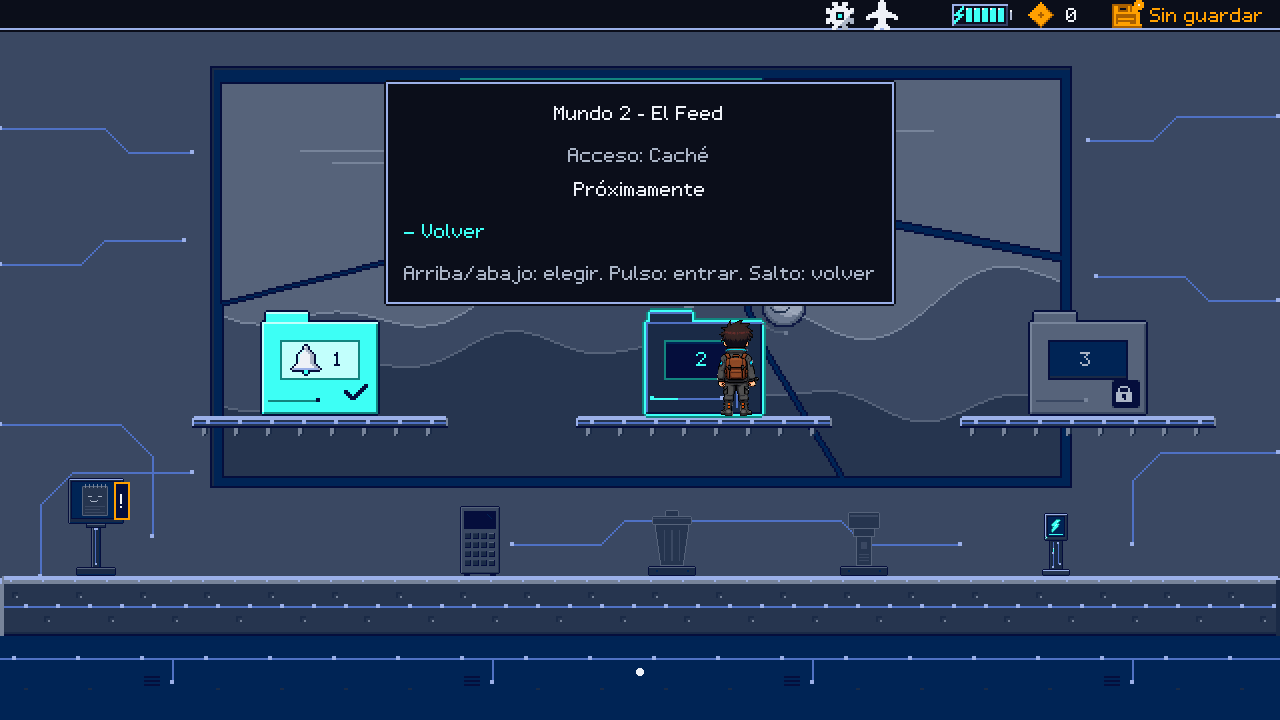
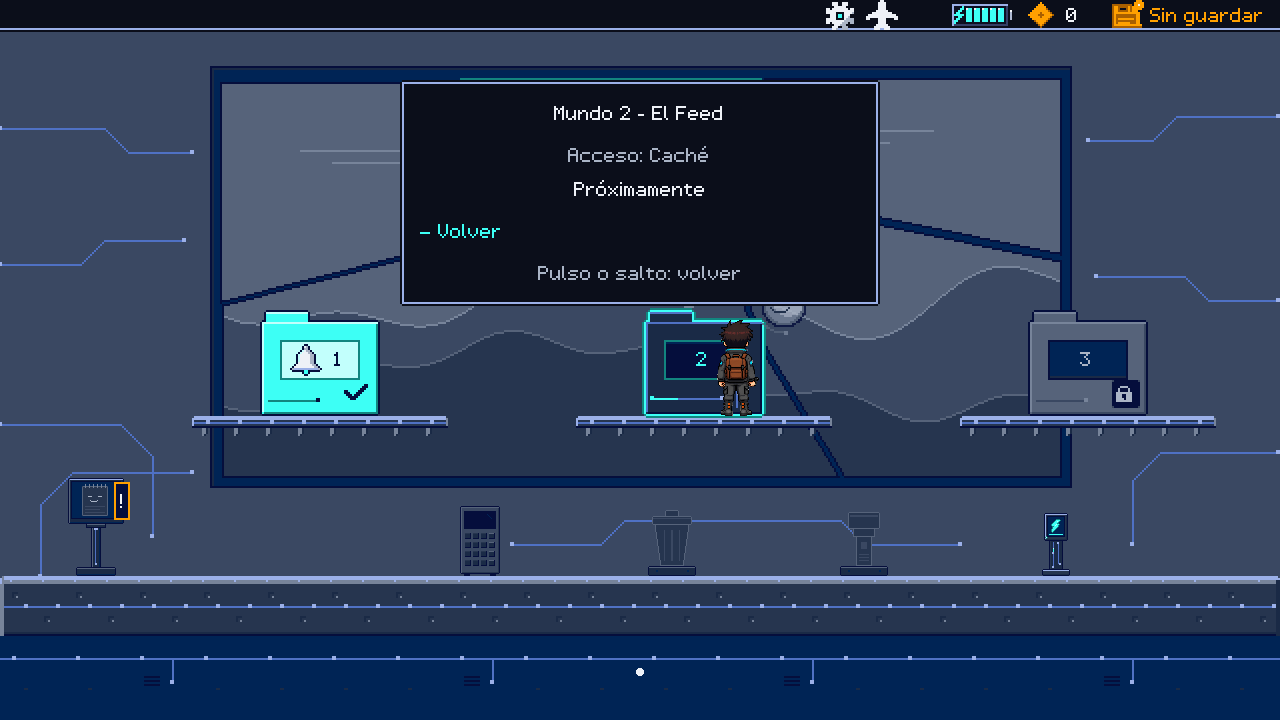
Hub: la carpeta de un mundo sin subniveles dice «Pulso o salto: volver»; prueba de los arreglos visuales y docs
- folders.texts.help_empty_world (Mundo 2 «Proximamente» sin «Pulso: entrar»)
- tests/test_visual_fixes.gd: arreglos del 1-3, del jefe y del hub
- docs: defectos de las capturas marcados como arreglados (mundo-1, 08-pendientes, CLAUDE.md)

Changed region(s): [[0.2812, 0.0917, 0.7188, 0.4278]]

diff --git a/docs/08-pendientes.md b/docs/08-pendientes.md
@@ -26,8 +26,8 @@ Origen: sección 16 del documento original (`docs/original/diseno.md`).
 - Historia del encuentro con Calc al final del 1-2 (2026-10-15 (3)): ~~opción A aprobada el 2026-10-16~~ sustituida el 2026-10-17 por el acertijo de la azotea de `propuesta-calc-encuentro.md` (tandas H1 y H2 hechas: piezas y sala de prueba; acertijo en la azotea del 1-2, ampliada a 11 filas, y en el validador con camino exportado, con Calc desconocida y conocida). H3 hecha el 2026-10-17 (encuentro en el hub con el estilo LCD de Calc, `CalcIntro`). El bot vertical (paso 15 del 1-2) recorre ambos casos desde el 2026-10-18. Pendiente: textos de Eco y Calc propuestos, por decidir; preguntas abiertas en su §9 y el tiempo de espaldas de cada pulso (0,45 s; `preguntas.md`).
 - Sistema de mejoras de Calc (2026-10-16; `propuesta-mejoras.md` **aprobada el 2026-10-17**): **tanda M1 hecha** (catálogo por pistas, compras con tope por acceso, guardado v4 con migración y devoluciones, efectos simples y tienda nueva con su arte; detalle en su sección «Tanda M1»). **Tanda M2 hecha (2026-10-17):** Ocultarte (Pulso 4, acción `hide` H / L3), Pulso de retorno (Pulso 5), láser que perfora (Láser 5), revelado persistente, más ralentización y Arranque rápido (Debug 3-5), Resincronización (Sync 5), recarga pasiva (Energía 5), tope de 3 power banks con «Sin espacio», icono «oculto» del HUD y la pasada del validador con el tope del acceso (`--access-cap`); ningún nivel sale ya «Próximamente». Pendiente: ajustar jugando los costes y valores (`data/upgrades.json`, `data/hide_mode.json`, `data/passive_regen.json`), la definición de «fuera de combate» y el tamaño de los efectos («+4», «?»); jefes que usen el Ocultarte (ideas en `propuesta-mejoras.md` §4, sin implementar); al menos un power bank por mundo y vuelta al hacer los mapas.
 - Nivel 1-2 «Centro de notificaciones» (2026-10-16): `propuesta-1-2.md` **aprobada el 2026-10-16** con todas sus recomendaciones (`preguntas.md`, «Aprobación del 1-2»). Hechos los pasos 1, 2, 3, 4, 5 y 9 de su §10 (esquema vertical, constructor, cámara de torre, fondo vertical y nivel de prueba `tower_test`; objetos del láser —lector, receptor enlazado, anuncio— y obtención del Debug, con la sala de prueba `correo_test`; punto rojo y banner, con la sala de prueba `mensajes_test`; recordatorio y Posponer, pop-up translúcido y barra del 99 %, con las salas `recordatorios_test`, `overlay_test` y `actualizaciones_test`); hecho además el paso 10 (validador con láser, Debug, energía, temporizadores y torre, y exportación del camino; `propuesta-1-2.md` §10); hecho además el paso 13 (el 1-2 real jugable desde el hub, con la fachada de la torre; 2026-10-16); hecho el paso 15 (bot vertical, 2026-10-18; hallazgos en `propuesta-1-2.md` §10); pendientes del paso 14 el recuerdo (hecho el encuentro con Calc, tandas H1-H3) y la ayuda `hidden_platform`. ~~Por decidir (hallazgo del bot): el pasillo de `banner_2` (piso 4) andando lo alcanza el barrido aunque el validador lo da por seguro~~ corregido el modelo del validador el 2026-10-19 (`preguntas.md`). Ajustar jugando la velocidad, el aviso y el lanzamiento del punto rojo, el ritmo de los banners, los tiempos de los recordatorios y del Posponer (tope y enfriamiento) y la espera y las oleadas del 99 %. Por decidir además: la línea de historia de Eco al obtener el Debug (propuesta en `data/world1_objects.json`). Por decidir: el contenido de los recuerdos (correos y mensajes de texto de familiares y amigos) y los textos de Calc. ~~Fachada de la torre sin costura~~ hecha con el paso 13. Ajustar jugando el 1-2 completo (tiempos de los recordatorios, puntos rojos del rellano, legibilidad de la fachada). Hecho el 2026-10-17 tras la primera prueba: holgura de techo en todas las subidas (medida con el Isak real, `tests/test_level_climbs.gd`) y contraste del fondo (velo `tower_dim` y fachada más oscura); por decidir: tile propio para las celdas de forjado de una vía que no se alcanzan desde abajo, la intensidad del velo y la corrección de esquina (propuesta en `preguntas.md`, sin implementar).
-- Nivel 1-3 «No molestar» (2026-10-19, decisiones del usuario; `propuesta-1-3.md`, **aprobada el 2026-10-19; hecho el 2026-10-20-22**: pasos 1-12, jugable desde el hub, con bot, capturas y mapa): C5 resuelto (Deslizar es un gesto aparte, `gesture_swipe`; no sube de nivel); primer banner obligatorio con el dash; ritmo solo visual; secreto «Excepciones» con `msg_1_3` sin dash. ~~Por decidir: las preguntas de su §8 (cómo se hace obligatorio el banner, dash y enemigos, dash con el Debug, valores, ritmo en bucle, power bank) y los textos (línea de Eco al obtener el gesto, carteles, mensaje de Mamá).~~ Las preguntas de su §8 se aprobaron con las 13 recomendaciones. Pendiente: ajustar jugando los valores del dash y los compases (los de la propuesta no caben en las reglas del esquema), el foso de 5 tiles (91 % andando), la línea de Eco del interruptor (propuesta) y los defectos visuales de las capturas (plataforma apagada poco visible, sala «Ajustes» sin decorado propio, tinte casi imperceptible, interior de «Excepciones» visible desde fuera, panel pequeño, Eco sobre el techo en pasillos de 2 filas, terminal genérica; `propuesta-1-3.md` §7, paso 12).
+- Nivel 1-3 «No molestar» (2026-10-19, decisiones del usuario; `propuesta-1-3.md`, **aprobada el 2026-10-19; hecho el 2026-10-20-22**: pasos 1-12, jugable desde el hub, con bot, capturas y mapa): C5 resuelto (Deslizar es un gesto aparte, `gesture_swipe`; no sube de nivel); primer banner obligatorio con el dash; ritmo solo visual; secreto «Excepciones» con `msg_1_3` sin dash. ~~Por decidir: las preguntas de su §8 (cómo se hace obligatorio el banner, dash y enemigos, dash con el Debug, valores, ritmo en bucle, power bank) y los textos (línea de Eco al obtener el gesto, carteles, mensaje de Mamá).~~ Las preguntas de su §8 se aprobaron con las 13 recomendaciones. Pendiente: ajustar jugando los valores del dash y los compases (los de la propuesta no caben en las reglas del esquema), el foso de 5 tiles (91 % andando), la línea de Eco del interruptor (propuesta) y ~~los defectos visuales de las capturas (plataforma apagada poco visible, sala «Ajustes» sin decorado propio, tinte casi imperceptible, interior de «Excepciones» visible desde fuera, panel pequeño, Eco sobre el techo en pasillos de 2 filas, terminal genérica)~~ arreglados el 2026-10-22 (`propuesta-1-3.md` §7, paso 12); por ajustar jugando: la intensidad del tinte (0,68 / 0,72 / 0,90) y el aspecto del decorado nuevo.
 - **Música y efectos de sonido** (decisión abierta de `CLAUDE.md`): se tratarán **al terminar el 1-1, el 1-2 y el 1-3** (decisión del usuario, 2026-10-19); hasta entonces el ritmo del 1-3 es solo visual.
 - Recuerdos de jefe en tres capas (decisión del usuario, 2026-10-18; `propuesta-recuerdos.md`): **pasos 1-8 hechos hasta donde el juego lo permite (2026-10-22, §11 de la propuesta); faltan los mensajes de los Mundos 2-6, el texto del ensamblaje, el final real y el paso de vuelta, y decidir qué pasa si se llega a la decisión en Raíz sin todos los recuerdos.** Historia: escribir los 18 recuerdos de jefe (6 jefes × Caché / Kernel / Raíz) mundo a mundo al construir cada mundo y los mensajes de secretos; el recuerdo de la carpeta de Spam del 1-2 pasa a ser un mensaje de secreto. Decidido el 2026-10-18 (su §8): Isak Optimizado es el sexto jefe; ilustración solo en la capa Kernel (Caché, borrosa); 3 mensajes por mundo en Caché; capas perdidas sin regla especial, con red de seguridad. **Decidido el 2026-10-19 (su §9 y §10):** el final real exige los 18 recuerdos de jefe **y todos los mensajes de secretos** (`has_all_memories()`); un mensaje no obtenido reaparece en el mismo secreto en Kernel y Raíz; ilustraciones por script; el aviso de guardar es texto del sistema; esbozo del Mundo 1 como tono; Eco reacciona tras la capa Raíz; familia decidida; borradores de los mensajes del 1-1 (secreto A), 1-2 (Spam) y concepto del 1-3 (sala «Excepciones», solo Debug). Pendiente: hacer las 6 ilustraciones, mensajes propios de Kernel y Raíz, textos definitivos (recuerdos, mensajes, ensamblaje del final real), la recompensa `memory` en `secrets` de los niveles y verificar al implementar que en la vuelta actual se pueden volver a entrar los niveles completados para buscar un mensaje pendiente.
 - **Hecho del 2026-10-20 al 2026-10-22** (detalle en `CLAUDE.md`, «Decisiones tomadas»): el **1-3** completo (pasos 1-12 de `propuesta-1-3.md`, con bot, capturas y mapa); el **jefe Alerta Mayor** (pasos 1-16 de `propuesta-jefe-alerta-mayor.md`: arena, tres fases, barra, golpe final, recompensa, Mundo 2 desbloqueado, bot, guardado de la victoria, arte final del cuerpo, capturas y mapa; el Mundo 1 se juega entero en Caché); el **sistema de audio** (`AudioManager`, buses, ajustes de volumen, señales de ritmo, sonidos provisionales y audio externo junto al ejecutable); la **exportación de Windows** (zip con la carpeta `audio/` y `LEEME-audio.txt`); **rendimiento** (caché de texturas de las plataformas que parpadean: el 1-3 bajaba de 10 FPS); **ajustes de pantalla** (tamaños que caben con la barra de título y «Escalado: Llenar ventana / Nítido»); recuerdos pasos 1-8 (línea anterior); las piezas del jefe que siguen por script, sin `_placeholder`.
-- **Pendiente tras el Mundo 1:** Kernel y Raíz con rasgos propios (contenido nuevo por vuelta, tope de mejoras y textos de Eco por acceso); el **Mundo 2** «El Feed» (diseño y producción); la **pantalla de título**; pulir el arte flojo (defectos anotados en `propuesta-1-3.md` §7, paso 12, y `propuesta-jefe-alerta-mayor.md` §6.5: plataformas apagadas poco visibles, sala «Ajustes» sin decorado, tinte del interruptor, Eco tapando la barra del jefe, arena más ancha que la pantalla, etc.); el **final real**; **probar el zip en Windows** en una máquina real; decisiones abiertas del usuario: **hex de las paletas por mundo** y lo que quede abierto de la **familia de Isak** (más allá de §12.5 de `04-personajes.md`).
+- **Pendiente tras el Mundo 1:** Kernel y Raíz con rasgos propios (contenido nuevo por vuelta, tope de mejoras y textos de Eco por acceso); el **Mundo 2** «El Feed» (diseño y producción); la **pantalla de título**; pulir el arte flojo (~~defectos anotados en `propuesta-1-3.md` §7, paso 12, y `propuesta-jefe-alerta-mayor.md` §6.5~~ arreglados el 2026-10-22; queda: con Isak pegado a una pared de la arena del jefe, lo del otro extremo puede quedar cortado —la arena mide 1536 px y la pantalla 1280; cambiarlo exige reducir la arena o alejar la cámara, decisión del usuario—, y el resto del arte flojo que se vea jugando); el **final real**; **probar el zip en Windows** en una máquina real; decisiones abiertas del usuario: **hex de las paletas por mundo** y lo que quede abierto de la **familia de Isak** (más allá de §12.5 de `04-personajes.md`).

diff --git a/CLAUDE.md b/CLAUDE.md
@@ -70,6 +70,7 @@ Están en `.claude/skills/`:
 - Validador del 1-3 (2026-10-20; paso 9 de §7 de `docs/propuesta-1-3.md`, implementado; detalle y límites en su §7 y en la skill `level-builder`, regla 10): `tools/validate_level.py` + `tools/level_plan.py` modelan el **dash** (habilidad del grafo por `abilities_available.dash` o el `dnd_switch`; dash en el suelo y aéreo, nunca con el Debug; 10 de energía, enfriamiento e invulnerabilidad en el plan), los **banners y campanas con ritmo**, las **plataformas que parpadean** (solo se pisan encendidas), el **túnel de alarmas** (compás por la columna más avanzada), **`validation.dash_required`** (sin dash no se cruza ni andando ni corriendo; con dash sí, ventana ≥ 0,3 s) y **`forbid_abilities`**; camino exportado con pasos `dash` y `wait_beat`. Sin avisos de «no se modela»; la salida del 1-1 y del 1-2 es idéntica byte a byte. Pruebas en `tests/test_level_plan.py` (`DashAndRhythmTest`). Pendiente de decidir: un foso de 5 tiles con salto y dash aéreo andando pide el 91 % (límite 85 %).
 - Nivel 1-3 «No molestar» (2026-10-20; paso 10 de §7 de `docs/propuesta-1-3.md`, implementado; detalle y desvíos en su §7): **el 1-3 real** (`data/levels/1-3.json`, 260 × 14, horizontal; escena `scenes/levels/1-3.tscn`) es **jugable desde la carpeta del Mundo 1** tras completar el 1-2 (`playable` en `data/hub.json`) o con `-- --start-level=1-3` (builds de depuración). Sala «Ajustes» con el interruptor «No molestar» (da Deslizar) y, al encenderlo, **tinte de todo el nivel** (`CanvasModulate` `RoomTint` del `DndSwitch`, `room_tint` / `room_tint_fade_s` de la sección `dnd_switch`; no tiñe el HUD; con el dash ya obtenido el nivel empieza teñido); Tramo 1 con el banner obligatorio (solo con el dash), nichos y el secreto B (salto + dash aéreo); Tramo 2 con el metrónomo, las plataformas que parpadean y el secreto «Excepciones» (Debug, sin dash, `msg_1_3`); Tramo 3 con Burbujas y puntos rojos; Tramo 4 con el túnel de alarmas y el secreto C (power bank vacío); cierre con la terminal «Deslizar para desbloquear», que vuelve al hub (Alerta Mayor aún no existe). 9 puntos (6 + 3), 3 cargadores, `sync_1` y `sync_2`, sin vida extra. Validador: sin el dash, el pasillo de un banner de `validation.dash_required` es un peligro del grafo (el interruptor es obligatorio); la búsqueda por tiempo solo mira las amenazas que tocan cada movimiento y un periodo de fase local (exacto; la salida del 1-1 y del 1-2 no cambia); `tools/run_tests.sh` lanza a la vez las pasadas del validador. Pruebas `tests/test_level_1_3.py` y `tests/test_level_1_3.gd`; subidas con el Isak real en `tests/fixtures/climbs_1-3.json`. Bot del 1-3 (paso 11, 2026-10-20; ver «Cómo ejecutar»). Capturas y mapa (paso 12, 2026-10-22): `tools/render_level_1_3.gd`, copia en `assets/levels_preview/1-3/` y `assets/levels_preview/1-3_mapa.png`.
 - Jefe Alerta Mayor, pasos 5-8 (2026-10-21; `docs/propuesta-jefe-alerta-mayor.md` §6, desvíos allí): arena `1-boss` «Pantalla de bloqueo» (`data/levels/1-boss.json`, `kind: "boss"`, sin G, 4 cargadores, Debug ×0,25, objetos de la fase 3 con `active_in_phase`) con `AlertMajor` (`scripts/bosses/alert_major.gd`, datos en `data/bosses/alert_major.json`): fase 1 Burbujas y barridos alternos (banner en modo disparo), fase 2 pop-ups, ráfagas (`NotificationShot`) y pop-up escudo (`overlay_popup` ampliado), fase 3 copias al compás (`AlertMajorClone`) con metrónomo, campanas y plataformas que parpadean; golpe final con el gancho `final_blow` (recompensa: paso 10). Raíz: 3 lanzamientos por ronda (decisión del usuario). Validador de arenas `tools/validate_boss.py` (lo usa `tools/validate_level.py` con `kind: "boss"`; energía de la pelea torpe por acceso). Textos PROPUESTOS; arte por script de `tools/gen_boss_alert_major.py` (notificación, escudo, barra, marco de la recompensa, ficha del núcleo, icono de Eco y «pop»; sin sufijo `_placeholder` desde el 2026-10-22, definitivas) y cuerpo con arte final (paso 16). Pasos 9-13 (2026-10-21): barra del jefe en el HUD (`BossBar`), golpe final con desarme en píxeles y recompensa (`BossDefeat`, `BossReward`: capa Caché `boss_w1_l1` sin guardar), Mundo 2 desbloqueado con «Próximamente» (`unlocked_by`), pieza cian que se enciende al volver, textos de Eco por el jefe (interlocutor `eco_boss`; propuesta del orquestador, revisar al jugar), 7 ayudas Q con ficha, sonidos enganchados y **fila «Jefe: Alerta Mayor» jugable desde el hub** tras completar el 1-3. Paso 14 (bot del jefe) y 15 (guardado de la victoria) el 2026-10-21; paso 16 el 2026-10-22: arte final del cuerpo con AutoSprite (`AlertMajorBody`, `docs/plan-arte-jefe-alerta-mayor.md` §7), capturas de la pelea completa (`tools/smoke_boss_arena.gd -- --full --shots`, copia en `assets/levels_preview/1-boss/`) y mapa de la arena (`assets/levels_preview/1-boss_mapa.png`).
+- Arreglos visuales de las capturas del 1-3 y de Alerta Mayor (2026-10-22; detalle en `docs/propuesta-1-3.md` §7, paso 12, y `docs/propuesta-jefe-alerta-mayor.md` §6.5; prueba `tests/test_visual_fixes.gd`): plataforma apagada con contorno discontinuo y segmentos vacíos; tinte del interruptor 0,68 / 0,72 / 0,90 en 1,0 s; param `cover` de `glitch_wall` (terreno falso sin colisión, hijo `Cover` generado por `tools/build_level.py`, que tapa la sala «Excepciones» hasta abrirla); panel de favoritos a escala 2 con iconos de 32 px; Eco baja bajo los techos bajos (`ceiling_clear_px`); tipo **`decor`** (`DecorSprite`, solo decorado: paneles de Wi-Fi / brillo / rotación de «Ajustes», rótulo de la ranura del banner obligatorio, reloj de la pantalla de bloqueo); `exit_terminal` con `skin: "lock_screen"`; con un jefe sin vencer el cuadro de Eco va abajo y la Q de Eco se calma tras destacarse `boss_calm.highlight_s` (`data/help.json`); `BossCamera` centra la cámara entre Isak y el jefe / las copias (sección `camera` del JSON del jefe); el contador del badge sigue a la pastilla al bajar y subir; la carpeta de un mundo sin subniveles dice «Pulso o salto: volver».
 - Sistema de audio (2026-10-20, decisiones del usuario en `docs/lista-sonidos.md`, «Decisiones (2026-10-20)»; integración en su sección final): autoload **`AudioManager`** (`scripts/autoload/audio_manager.gd`) que reproduce por ID desde **`data/audio.json`** (fuente única: archivos, bus, volumen, variantes, bucle, tiempo del mundo, señales de accesibilidad y qué señal dispara cada sonido) y se conecta a señales ya existentes (`EventBus`, señales de nodos por clase al entrar en el árbol, ambiente por nodo, pasos por cuadro de animación, blips del `EcoTextBox`) sin tocar la lógica del juego; **archivo ausente = silencio** (sin error). Seis buses en `default_bus_layout.tres` (Master con limitador; Music, World, Ambience, Voice, UI). Ajustes en `settings.cfg` (`GameSettings`): volumen por bus (Pausa > Ajustes > Sonido) y «Señales sonoras de ritmo» (accesibilidad, **Sí por defecto**: tic propio del metrónomo, independiente de la música, y aviso de las plataformas que parpadean). Hub: solo ambiente. Pasos de Isak audibles. Blip de Eco distinto en Caché / Kernel / Raíz. Sonidos **provisionales** (24 IDs) de `tools/gen_audio_placeholders.py`; los definitivos los hace un amigo del usuario con el mismo nombre (= ID). Validador `tools/validate_audio.py`; pruebas `tests/test_audio_manager.gd` y `tests/test_audio_catalog.py`. **Audio externo** (2026-10-21, para probar sonidos sin reexportar): un `<ID>.ogg` / `.wav` / `.mp3` (prioridad en ese orden; también el nombre de una variante de `files`) en la carpeta `audio/` junto al ejecutable del juego exportado (en el editor, `user://audio_override/`; `ISAK_AUDIO_DIR` sustituye a ambas) **gana al empaquetado**; se carga en tiempo de ejecución (`load_from_buffer`) con el bucle y el bus del catálogo; inválido = aviso una vez por ID en el log y suena el empaquetado; se vuelve a leer al volver a la ventana del juego si la carpeta cambió (`AudioManager.reload_external_audio()`). Detalle en `docs/lista-sonidos.md` («Probar sonidos sin reexportar»); pruebas `tests/test_audio_external.gd`. El zip de Windows lleva `audio/` vacía con `LEEME-audio.txt`.
 - Arranque del juego (2026-10-16): **con partida guardada se arranca en el hub**; sin ella, partida nueva en el 1-1 con el encuentro con Eco. «Hay partida» = al arrancar `GameState` cargó `save.json` (o su `.bak` si el principal estaba corrupto; `GameState.started_from_save`); inexistente, vacío, versión desconocida (apartado como `.corrupt`) o ilegible sin `.bak` = partida nueva. Como el guardado es manual y solo en el hub, no se exigen niveles completados. `LevelRunner.start_in_hub`: mismo flujo que tras completar un nivel (fundido, vórtice, energía y Sync llenos, Eco atenuado; presentación de Notas solo si no es conocida, p. ej. un v1/v2 migrado sin el 1-1), vidas al máximo, papelera vacía, sin «sin guardar». «Último nivel jugado» (tecla R) sin nivel jugado en la sesión: el subnivel más avanzado al que se puede entrar (`HubWorlds.most_advanced_level`) o el 1-1 (`LevelRunner.resume_level_id`). F9 empieza siempre una partida nueva en el 1-1.
 - Resolución 1280x720, Isak a 96 px visibles en canvas de 128x128 y tiles de 64x64 (C6, 2026-10-14).

diff --git a/docs/mundo-1-notificaciones.md b/docs/mundo-1-notificaciones.md
@@ -92,7 +92,7 @@ Origen: sección 6 del documento original (`docs/original/diseno.md`).
 > - **Secreto:** la sala «Excepciones» va en el Tramo 2 (propuesta), con `msg_1_3` (`secreto_excepciones`), alcanzable en Caché y sin dash.
 > - Propuestos: nivel horizontal de 260 × 14 tiles, `sync_1` al entrar al Tramo 2 y `sync_2` al entrar al Tramo 4, 3 cargadores, 9 puntos, 1 power bank vacío y sin vida extra.
 
-> **Implementado (2026-10-20, pasos 1-11 de [propuesta-1-3.md](propuesta-1-3.md) §7; paso 12 el 2026-10-22):** el 1-3 es jugable desde la carpeta del Mundo 1 tras completar el 1-2 (`data/levels/1-3.json`, 260 × 14, `scenes/levels/1-3.tscn`), con su bot (`tools/play_dnd_bot.gd`). Esquema real: sala «Ajustes» (1-22, interruptor «No molestar» que da Deslizar y tiñe el nivel) → Tramo 1 Silenciados (23-72: banner obligatorio solo con el dash, banner con nicho, dos banners desfasados, secreto B con salto + dash aéreo) → Tramo 2 Vibración (73-130: `sync_1`, metrónomo 3,2 / 2,6 / 2,0 s, foso con grupos alternos, ola de tres grupos, escalera al secreto «Excepciones» con `msg_1_3`, solo Debug) → Tramo 3 Interrupciones (131-185: cortina, dos puntos rojos, escolta bajo techo bajo) → Tramo 4 Alarmas (186-240: `sync_2`, túnel de 2,0 / 1,6 / 1,4 s con nueve campanas y tres banners al compás, secreto C con el power bank vacío) → cierre (241-259: terminal «Deslizar para desbloquear»). 9 puntos, 3 cargadores, sin vida extra. La terminal vuelve al hub; desde el 2026-10-21 el jefe se entra desde la carpeta (fila «Jefe: Alerta Mayor», §6.6). Mapa: `assets/levels_preview/1-3_mapa.png`; capturas: `assets/levels_preview/1-3/` (`tools/render_level_1_3.gd`).
+> **Implementado (2026-10-20, pasos 1-11 de [propuesta-1-3.md](propuesta-1-3.md) §7; paso 12 el 2026-10-22):** el 1-3 es jugable desde la carpeta del Mundo 1 tras completar el 1-2 (`data/levels/1-3.json`, 260 × 14, `scenes/levels/1-3.tscn`), con su bot (`tools/play_dnd_bot.gd`). Esquema real: sala «Ajustes» (1-22, interruptor «No molestar» que da Deslizar y tiñe el nivel) → Tramo 1 Silenciados (23-72: banner obligatorio solo con el dash, banner con nicho, dos banners desfasados, secreto B con salto + dash aéreo) → Tramo 2 Vibración (73-130: `sync_1`, metrónomo 3,2 / 2,6 / 2,0 s, foso con grupos alternos, ola de tres grupos, escalera al secreto «Excepciones» con `msg_1_3`, solo Debug) → Tramo 3 Interrupciones (131-185: cortina, dos puntos rojos, escolta bajo techo bajo) → Tramo 4 Alarmas (186-240: `sync_2`, túnel de 2,0 / 1,6 / 1,4 s con nueve campanas y tres banners al compás, secreto C con el power bank vacío) → cierre (241-259: terminal «Deslizar para desbloquear»). 9 puntos, 3 cargadores, sin vida extra. La terminal vuelve al hub; desde el 2026-10-21 el jefe se entra desde la carpeta (fila «Jefe: Alerta Mayor», §6.6). Mapa: `assets/levels_preview/1-3_mapa.png`; capturas: `assets/levels_preview/1-3/` (`tools/render_level_1_3.gd`). Defectos visuales de las capturas arreglados el 2026-10-22 (plataforma apagada, tinte, sala «Excepciones» tapada por terreno falso, panel de favoritos, Eco bajo techo bajo, decorado de «Ajustes», rótulo de la ranura del banner y terminal de pantalla de bloqueo; detalle en [propuesta-1-3.md](propuesta-1-3.md) §7, paso 12).
 
 ## 6.6 Jefe: Alerta Mayor
 
@@ -109,7 +109,7 @@ Un enorme badge rojo con el número "99+", la notificación que representa todas
 
 > **Decisión del usuario (2026-10-18):** este fragmento es la **capa Caché** del recuerdo de jefe del Mundo 1 (recuerdos de jefe en tres capas: Caché, Kernel y Raíz, una por vuelta); ver [propuesta-recuerdos.md](propuesta-recuerdos.md). Desde el 2026-10-19 el borrador de tono de sus tres capas (circuito en la cocina de casa con el Abuelito) está en su §5 (texto provisional).
 
-> **Implementado (2026-10-21/22, [propuesta-jefe-alerta-mayor.md](propuesta-jefe-alerta-mayor.md) §6, pasos 1-16):** arena `1-boss` «Pantalla de bloqueo» (`data/levels/1-boss.json`, 24 × 12, 4 cargadores, metrónomo, 3 campanas y plataformas que parpadean en la fase 3) con `AlertMajor` (arte final del cuerpo con AutoSprite): fase 1 Burbujas y barridos, fase 2 pop-ups, ráfagas y pop-up escudo, fase 3 copias al compás; golpe final con desarme en píxeles y recompensa (capa Caché `boss_w1_l1`, sin guardar); el Mundo 2 queda desbloqueado con «Próximamente» y la pieza cian del fondo del hub se enciende. Se entra desde la carpeta del Mundo 1 (fila «Jefe: Alerta Mayor») tras completar el 1-3. **Sin rollback** al final (decisión del 2026-10-20). Textos de Eco por el jefe: propuesta, a revisar jugando. Mapa: `assets/levels_preview/1-boss_mapa.png`; capturas: `assets/levels_preview/1-boss/`.
+> **Implementado (2026-10-21/22, [propuesta-jefe-alerta-mayor.md](propuesta-jefe-alerta-mayor.md) §6, pasos 1-16):** arena `1-boss` «Pantalla de bloqueo» (`data/levels/1-boss.json`, 24 × 12, 4 cargadores, metrónomo, 3 campanas y plataformas que parpadean en la fase 3) con `AlertMajor` (arte final del cuerpo con AutoSprite): fase 1 Burbujas y barridos, fase 2 pop-ups, ráfagas y pop-up escudo, fase 3 copias al compás; golpe final con desarme en píxeles y recompensa (capa Caché `boss_w1_l1`, sin guardar); el Mundo 2 queda desbloqueado con «Próximamente» y la pieza cian del fondo del hub se enciende. Se entra desde la carpeta del Mundo 1 (fila «Jefe: Alerta Mayor») tras completar el 1-3. **Sin rollback** al final (decisión del 2026-10-20). Textos de Eco por el jefe: propuesta, a revisar jugando. Mapa: `assets/levels_preview/1-boss_mapa.png`; capturas: `assets/levels_preview/1-boss/`. Defectos visuales de las capturas arreglados el 2026-10-22 (cuadro de Eco abajo durante la pelea, encuadre entre Isak y el jefe, contador del badge, Q de Eco calmada tras destacarse y carpeta del Mundo 2 sin «Pulso: entrar»; detalle en [propuesta-jefe-alerta-mayor.md](propuesta-jefe-alerta-mayor.md) §6.5).
 
 ## 6.7 Estado del Mundo 1 (2026-10-22)
 
